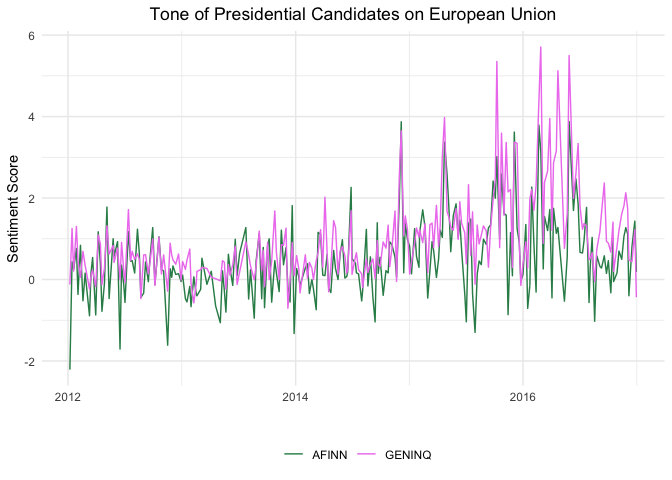
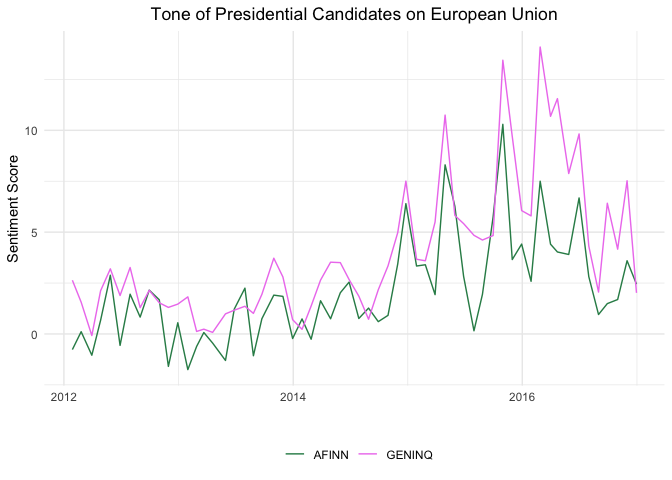
add mini-hackathon1 update Guardian news paper

diff --git a/Mini-Hackathon1-Guardian.md b/Mini-Hackathon1-Guardian.md
@@ -144,19 +144,19 @@ result_AFINN <- result_AFINN %>%
 library(tidyquant)
 df <- result_AFINN %>%
     tq_transmute(select     = sentiment1,
-                 mutate_fun = apply.weekly, #or apply.monthly for week level
+                 mutate_fun = apply.monthly, #or apply.weekly for week level
                  FUN        = sum)
 head(df)
 ```
 
 | date       |  sentiment1 |
 | :--------- | ----------: |
-| 2012-01-07 | \-2.2122387 |
-| 2012-01-14 |   0.4351683 |
-| 2012-01-19 |   0.2476190 |
-| 2012-01-28 |   0.7626396 |
-| 2012-02-02 | \-0.3649421 |
-| 2012-02-10 |   0.8395379 |
+| 2012-01-28 | \-0.7668119 |
+| 2012-02-25 |   0.1108273 |
+| 2012-03-30 | \-1.0444823 |
+| 2012-04-27 |   0.6739423 |
+| 2012-05-28 |   2.8837905 |
+| 2012-06-28 | \-0.5612669 |
 
 ``` r
 library(tidyverse)
@@ -197,7 +197,7 @@ df <- result_AFINN %>%
   add_row(result_GENINQ) %>%
   group_by(id) %>%
     tq_transmute(select     = c(sentiment1),
-                 mutate_fun = apply.weekly, #or apply.monthly for week level
+                 mutate_fun = apply.monthly, #or apply.weekly for week level
                  FUN        = sum)
 #head(df)
 
